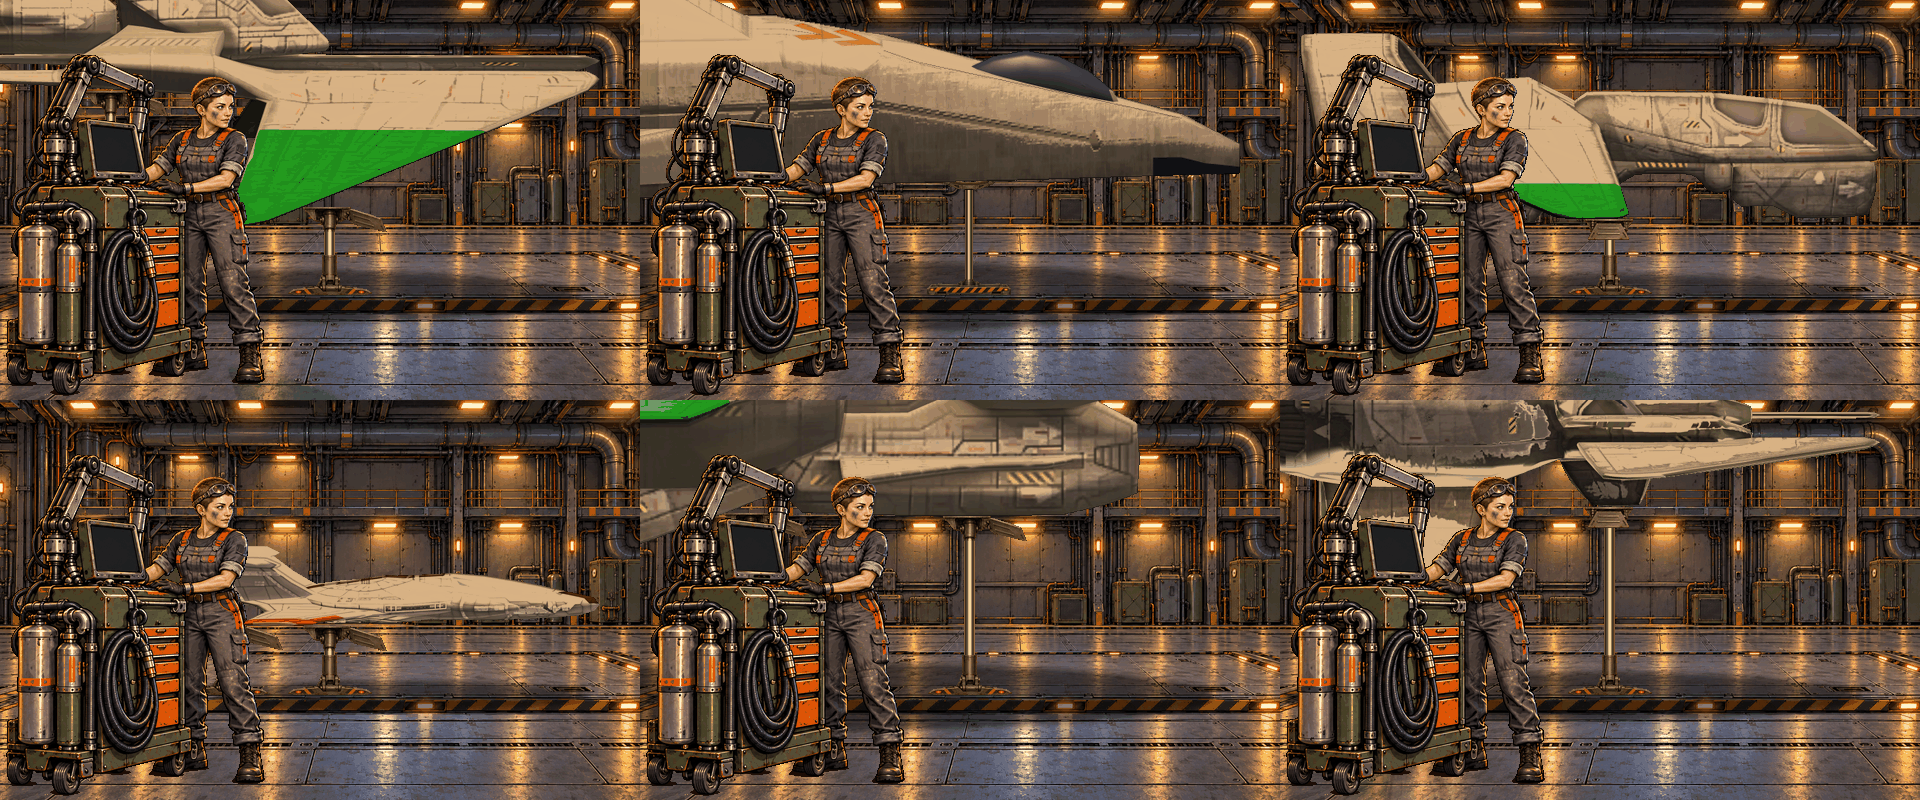
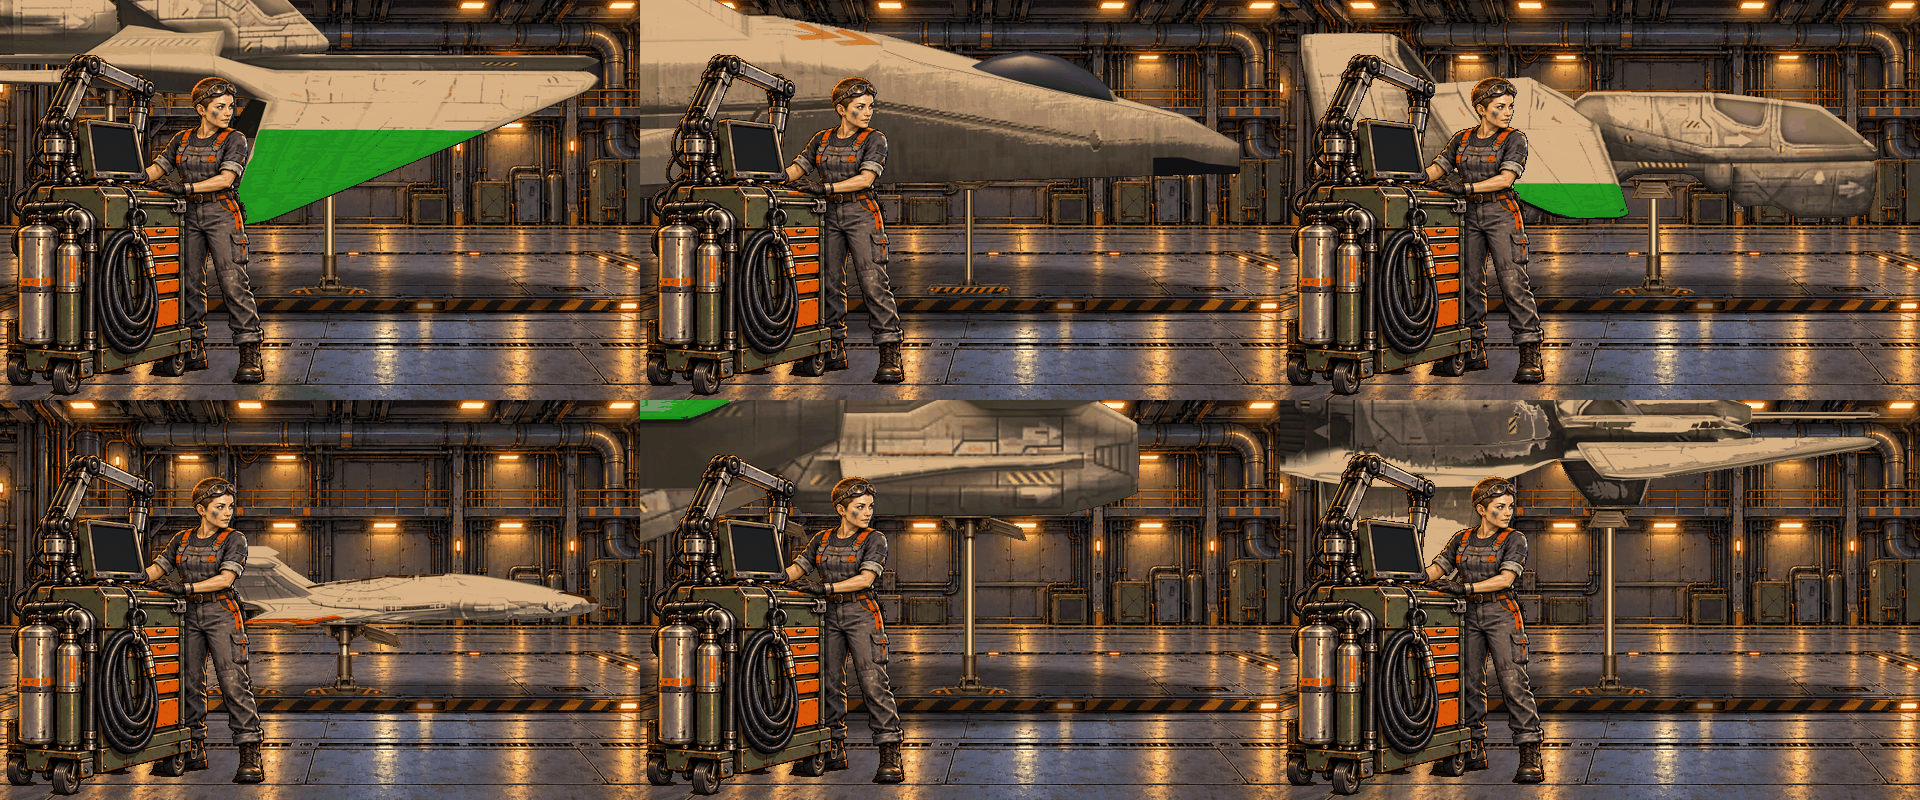
retrovega: the deck's landing legs attach to the body (the mesh near the centre line), not a wing
Claude-Session: https://claude.ai/code/session_019Nres1uExFzYT7oEr38LtM

diff --git a/retrovega/tools/places.py b/retrovega/tools/places.py
@@ -49,7 +49,7 @@ import os
 import sys
 
 import numpy as np
-from PIL import Image
+from PIL import Image, ImageDraw
 from scipy import ndimage
 
 HERE = os.path.dirname(os.path.abspath(__file__))
@@ -61,9 +61,11 @@ TICK = 50          # ms per frame of the launch
 LAUNCH = {'spool_ms': 600, 'lift_ms': 400, 'lift_px': 4, 'run_ms': 900}
 # the landing legs, in screen pixels: the least strut showing under a ship's
 # lowest point, the drawn leg's parts (a painted leg is scaled to the foot's
-# width), the least gap between two legs
-SLED = {'strut_min': 4, 'foot': (84, 16), 'strut': 14, 'saddle': 66, 'apart': 60}
+# width), the least gap between two legs, how far a leg may move from its spot
+# to find the body
+SLED = {'strut_min': 4, 'foot': (84, 16), 'strut': 14, 'saddle': 66, 'apart': 60, 'reach': 90}
 RENDER = 1280      # the size the fighters are rendered at before scaling down
+BODY = 0.22        # a ship's body: its hull within this much of its half-span of the centre line
 
 
 def places():
@@ -179,6 +181,26 @@ def render_views(ship, cfg, cache, rerender=False):
     return above, below, info
 
 
+def body_view(ship, elev, head):
+    """The ship's body alone (the fuselage, not the wings), as a view from
+    (elev, head) sees it, at RENDER size: the triangles whose middles lie
+    within BODY of the half-span of the centre line, filled in."""
+    import shipviews
+    parts, _lights, center, radius = shipviews.ship_mesh(shipviews.ship_row(ship),
+                                                         os.path.expanduser('~/dev/vegastrike-assets'))
+    span = max(float(np.max(np.abs(m.positions[:, 0] - center[0]))) for m in parts)
+    rot = shipviews.view_matrix(elev, head)
+    img = Image.new('L', (RENDER, RENDER), 0)
+    draw = ImageDraw.Draw(img)
+    for m in parts:
+        tri = m.positions[np.asarray(m.tri_index).reshape(-1, 3)]
+        keep = np.abs(tri[..., 0].mean(axis=1) - center[0]) < BODY * span
+        v = (tri[keep] - center) @ rot.T / radius
+        for xs, ys in zip((v[..., 0] + 1) * RENDER / 2, (1 - v[..., 1]) * RENDER / 2):
+            draw.polygon(list(zip(xs.tolist(), ys.tolist())), fill=255)
+    return img
+
+
 _SCALES = {}
 
 
@@ -217,25 +239,46 @@ def fighter(ship, cfg, frame, cache, legs, rerender=False):
     engines = nozzles(sprite, [(ey - bb[1]) * s for _ex, ey, _r in info['engines']])
     under, ux, uy = under_layer(below, s, x, size[0], cx, cy, deck, cfg['light'])
     return {'sprite': sprite, 'x': x, 'y': y, 'under': under, 'ux': ux, 'uy': uy, 'engines': engines,
-            'sleds': sled_spots(sprite, x, y, [frame.xy(sx, 0)[0] for sx in cfg['sleds']], legs)}
+            'sleds': sled_spots(sprite, body(ship, cfg, bb, size), x, y,
+                                [frame.xy(sx, 0)[0] for sx in cfg['sleds']], legs)}
 
 
-def sled_spots(sprite, x, y, want, legs):
-    """Where a fighter's legs stand: at the room's spots (screen x), each
-    moved towards the nose until there is hull over its whole top, a leg that
-    ends up too near another left out.  Each is [x of its strut, y of its
-    top]; its top meets the belly, the lowest point over it."""
-    a = np.asarray(sprite)[..., 3] > 0
-    h, w = a.shape
-    has = a.any(axis=0)
-    belly = np.where(has, h - 1 - np.argmax(a[::-1], axis=0), -1)
+def body(ship, cfg, bb, size):
+    """The body mask (body_view) over the sprite's pixels."""
+    img = body_view(ship, cfg['elevation'], cfg['heading']).crop(bb).resize(size, Image.BOX)
+    return np.asarray(img) >= 128
+
+
+def sled_spots(sprite, body, x, y, want, legs):
+    """Where a fighter's legs stand: each at the nearest place to the room's
+    spot (screen x) where the body covers the leg's whole top and nothing
+    hangs lower there (a leg behind a wing looks fixed to the wing); failing
+    that, towards the nose under the body anyway.  A leg that ends up too
+    near another is left out.  Each is [x of its strut, y of its top]; its
+    top meets the body's belly, the lowest point of the body over it."""
+    def bellies(a):
+        has = a.any(axis=0)
+        return has, np.where(has, a.shape[0] - 1 - np.argmax(a[::-1], axis=0), -1)
+    w = sprite.size[0]
+    _, low = bellies(np.asarray(sprite)[..., 3] > 0)
+    has, belly = bellies(body)
     lo, hi = legs['top']
+    covered = np.array([c + lo >= 0 and c + hi < w and has[c + lo:c + hi + 1].all() for c in range(w)])
+    lowest = np.array([covered[c] and (low[c + lo:c + hi + 1] - belly[c + lo:c + hi + 1]).max() <= 2
+                       for c in range(w)])
     spots = []
     for sx in want:
-        c = max(int(round(sx)) - x, -lo)
-        while c + hi < w and not has[c + lo:c + hi + 1].all():
-            c += 1
-        if c + hi >= w or any(abs(x + c - q[0]) < SLED['apart'] for q in spots):
+        c0 = int(round(sx)) - x
+        good = np.nonzero(lowest)[0]
+        near = good[np.abs(good - c0) <= SLED['reach']] if len(good) else good
+        if len(near):
+            c = int(near[np.argmin(np.abs(near - c0))])
+        else:
+            later = np.nonzero(covered[max(c0, 0):])[0]
+            if not len(later):
+                continue
+            c = int(later[0]) + max(c0, 0)
+        if any(abs(x + c - q[0]) < SLED['apart'] for q in spots):
             continue
         spots.append([int(x + c), int(y + belly[c + lo:c + hi + 1].max() + 1)])
     return spots

diff --git a/retrovega/tools/shipviews.py b/retrovega/tools/shipviews.py
@@ -584,6 +584,29 @@ def environment(ctx, assets, name, size=256):
     return tex
 
 
+def ship_mesh(row, assets):
+    """A ship's mesh as the views are drawn from it: its parts, stretched
+    (data/art.csv), its engine lights, the centre the views turn about and
+    the radius they are framed by."""
+    art = table_row('art.csv', row['key']) or {}
+    stretch = np.array([float(v) for v in (art.get('stretch') or '1 1 1').split()])
+    if row['mesh'].startswith('hull:'):
+        base_lights = unit_lights(assets, hulls.RECIPES[row['mesh'][5:]][0].split('/')[0])
+        parts, raw_lights, _base = hulls.build(row['mesh'][5:], assets, base_lights)
+    else:
+        parts = bfxm.parts(os.path.join(assets, 'units', 'vessels', row['mesh']))
+        raw_lights = unit_lights(assets, row['vs_unit'])
+    for m in parts:
+        m.positions = m.positions * stretch
+        n = m.normals / stretch
+        m.normals = n / np.maximum(np.linalg.norm(n, axis=1), 1e-9)[:, None]
+    allpos = np.concatenate([m.positions for m in parts])
+    center = (allpos.min(0) + allpos.max(0)) / 2
+    radius = float(np.max(np.linalg.norm(allpos - center, axis=1))) * 1.04
+    lights = [(np.array(l[0] if len(l) == 2 else l[:3]) * stretch, l[-1]) for l in raw_lights]
+    return parts, lights, center, radius
+
+
 def render(row, outdir, size, assets, livery_name=None, key=KEY_DIR, ambient=AMBIENT, shine=None, tag_suffix='',
            env=ENV, env_gain=ENV_GAIN, key_power=KEY_POWER, exposure=None, reflect=None, views=None):
     """views: (elevation, heading) pairs to render instead of the sprite set,
@@ -593,26 +616,11 @@ def render(row, outdir, size, assets, livery_name=None, key=KEY_DIR, ambient=AMB
     livery = table_row('liveries.csv', livery_name, 'name')
     if livery is None:
         sys.exit('no livery %r in data/liveries.csv' % livery_name)
-    stretch = np.array([float(v) for v in (art.get('stretch') or '1 1 1').split()])
-    views_wanted = VIEWS
-    if row['mesh'].startswith('hull:'):
-        base_lights = unit_lights(assets, hulls.RECIPES[row['mesh'][5:]][0].split('/')[0])
-        parts, raw_lights, _base = hulls.build(row['mesh'][5:], assets, base_lights)
-        if hulls.asymmetric(row['mesh'][5:]):
-            views_wanted = VIEWS_ASYM
-    else:
-        parts = bfxm.parts(os.path.join(assets, 'units', 'vessels', row['mesh']))
-        raw_lights = unit_lights(assets, row['vs_unit'])
+    views_wanted = VIEWS_ASYM if row['mesh'].startswith('hull:') and hulls.asymmetric(row['mesh'][5:]) else VIEWS
     if views:
         views_wanted = views
-    for m in parts:
-        m.positions = m.positions * stretch
-        n = m.normals / stretch
-        m.normals = n / np.maximum(np.linalg.norm(n, axis=1), 1e-9)[:, None]
+    parts, lights, center, radius = ship_mesh(row, assets)
     allpos = np.concatenate([m.positions for m in parts])
-    center = (allpos.min(0) + allpos.max(0)) / 2
-    radius = float(np.max(np.linalg.norm(allpos - center, axis=1))) * 1.04
-    lights = [(np.array(l[0] if len(l) == 2 else l[:3]) * stretch, l[-1]) for l in raw_lights]
 
     ctx = moderngl.create_standalone_context(backend='egl')
     prog = ctx.program(vertex_shader=VS, fragment_shader=FS)

diff --git a/retrovega/docs/places.md b/retrovega/docs/places.md
@@ -84,11 +84,16 @@ rest).
   each style's `axis` (the strut's middle) and `seat` (how far down the
   saddle the hull rests: the cradle's dip; 0 for the gear legs' flat
   plates).
-- **Where they go:** at the deck's two spots (`sleds`, source x): one under
-  the middle of the deck, one behind the cart, where it is mostly hidden.
-  A spot with no hull over the leg's whole top moves towards the nose until
-  there is; a leg that would end up within 60 px of the other is left out.
-  Each reaches from the deck to the lowest point of the hull above it.
+- **Where they go:** on the body, never a wing. The tool finds each ship's
+  body from its mesh: the triangles whose middles lie within 22% of the
+  half-span of the centre line. Each leg goes to the place nearest its
+  spot (`sleds`, source x: one mid-deck, one behind the cart, where it is
+  mostly hidden) where the body covers the leg's whole top and nothing
+  hangs lower. A leg behind a wing would look fixed to the wing. It may
+  move up to 90 px for that. Its top meets the body's belly. Where a wing
+  hangs below the body all along, as on the Schroedinger's front half, the
+  leg still goes to the body and rises behind the wing. A leg that would
+  end up within 60 px of the other is left out.
 - **Height:** every ship's lowest point clears its style's shortest leg:
   the foot, the saddle and 4 rows of strut. On the gear legs that is about
   65 px, some 3 m.
